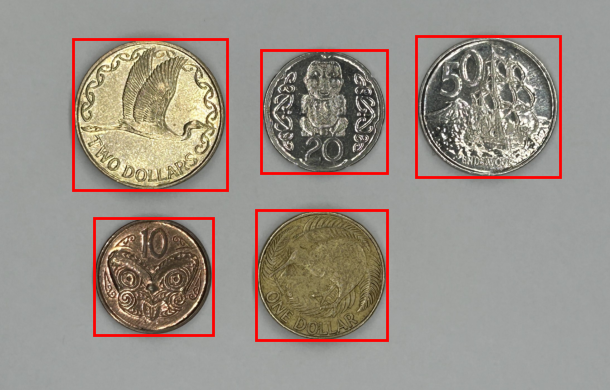
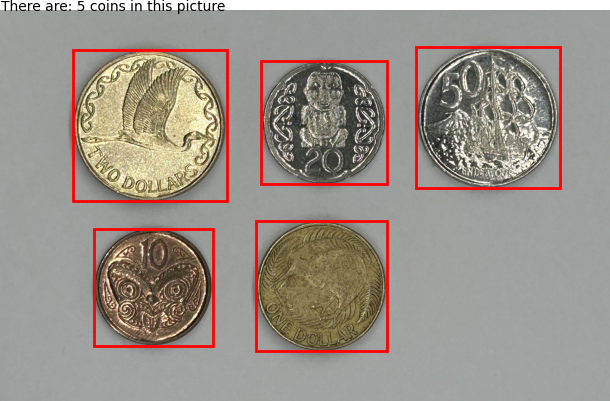
feat: implemented coin counter at top corner of page

diff --git a/CS373_coin_detection.py b/CS373_coin_detection.py
@@ -6,7 +6,7 @@ import sys
 # assignment.
 from matplotlib import pyplot
 from matplotlib.patches import Rectangle
-
+import matplotlib
 # import our basic, light-weight png reader library
 import imageIO.png
 
@@ -361,6 +361,8 @@ def main(input_path, output_path):
     fig, axs = pyplot.subplots(1, 1)
     axs.imshow(px_array, aspect='equal')
     
+    coinCount = 0
+    
     # Loop through all bounding boxes
     for bounding_box in bounding_box_list:
         bbox_min_x = bounding_box[0]
@@ -371,16 +373,23 @@ def main(input_path, output_path):
         bbox_xy = (bbox_min_x, bbox_min_y)
         bbox_width = bbox_max_x - bbox_min_x
         bbox_height = bbox_max_y - bbox_min_y
-        
-        print(bbox_width)
-        print(bbox_height)
-        
+                
         if(bbox_width > 0.95 * bbox_height and bbox_width < 1.05 * bbox_height):
             
             if(bbox_height > 100):
+                coinCount = coinCount + 1
                 rect = Rectangle(bbox_xy, bbox_width, bbox_height, linewidth=2, edgecolor='r', facecolor='none')
                 axs.add_patch(rect)
+                print(coinCount)
         
+        
+    if(coinCount == 1):
+        matplotlib.pyplot.text(1, 1, "There is: " + str(coinCount) + " coin in this picture")
+    else:
+        matplotlib.pyplot.text(1, 1, "There are: " + str(coinCount) + " coins in this picture")
+
+        
+    
     pyplot.axis('off')
     pyplot.tight_layout()
     default_output_path = f'./output_images/{image_name}_with_bbox.png'
